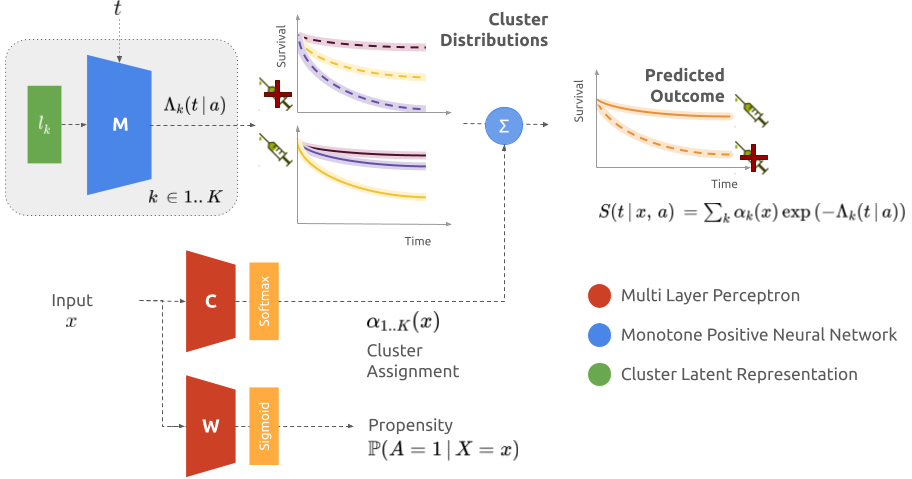
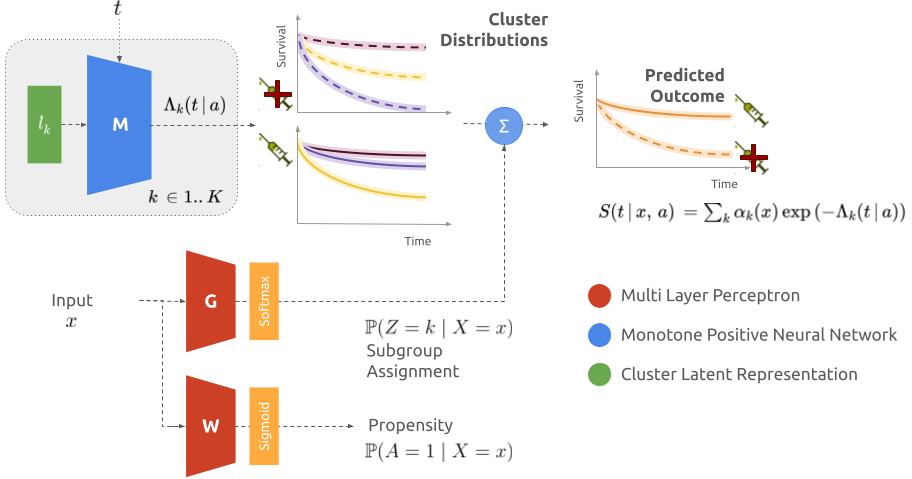
Update representation and description

Changed region(s): [[0.3991, 0.643, 0.5526, 0.7599], [0.3991, 0.9061, 0.5833, 0.9645], [0.2149, 0.6138, 0.2456, 0.643]]

diff --git a/README.md b/README.md
@@ -1,9 +1,11 @@
 # Causal Neural Survival Clustering
-This repository allows to reproduce the results in [Causal Neural Survival Clustering]()
-A micture of treatments effects parametrised by monotone neural networks to model the cumulative incidence function of each group under treatment and control regimes.
+This repository allows to use the model and reproduce the results introduced in [Causal Neural Survival Clustering]().
+This models aim to uncover subgroups of patients with different treatment effects.
+Each patient is assigned to a subgroup characterised by two neural networks modelling survival under treatment and control regimes.
+
 
 ## Model
-The model consists of three neural networks for estimating the survival distributions: M models the cumulative incidence function under both treatmen regimes, C assigns each patient to the different clusters, and W computes the likelihood to receive treatment to adjust the likelihood.  
+The model consists of three neural networks for estimating the survival distributions: M models the cumulative incidence function under both treatment regimes given a latent representation for each cluster, G assigns each patient to the different subgroups, and W computes the probability to receive treatment to adjust the likelihood for observational study.
 
 ![Model](./images/ntc.png)
 
